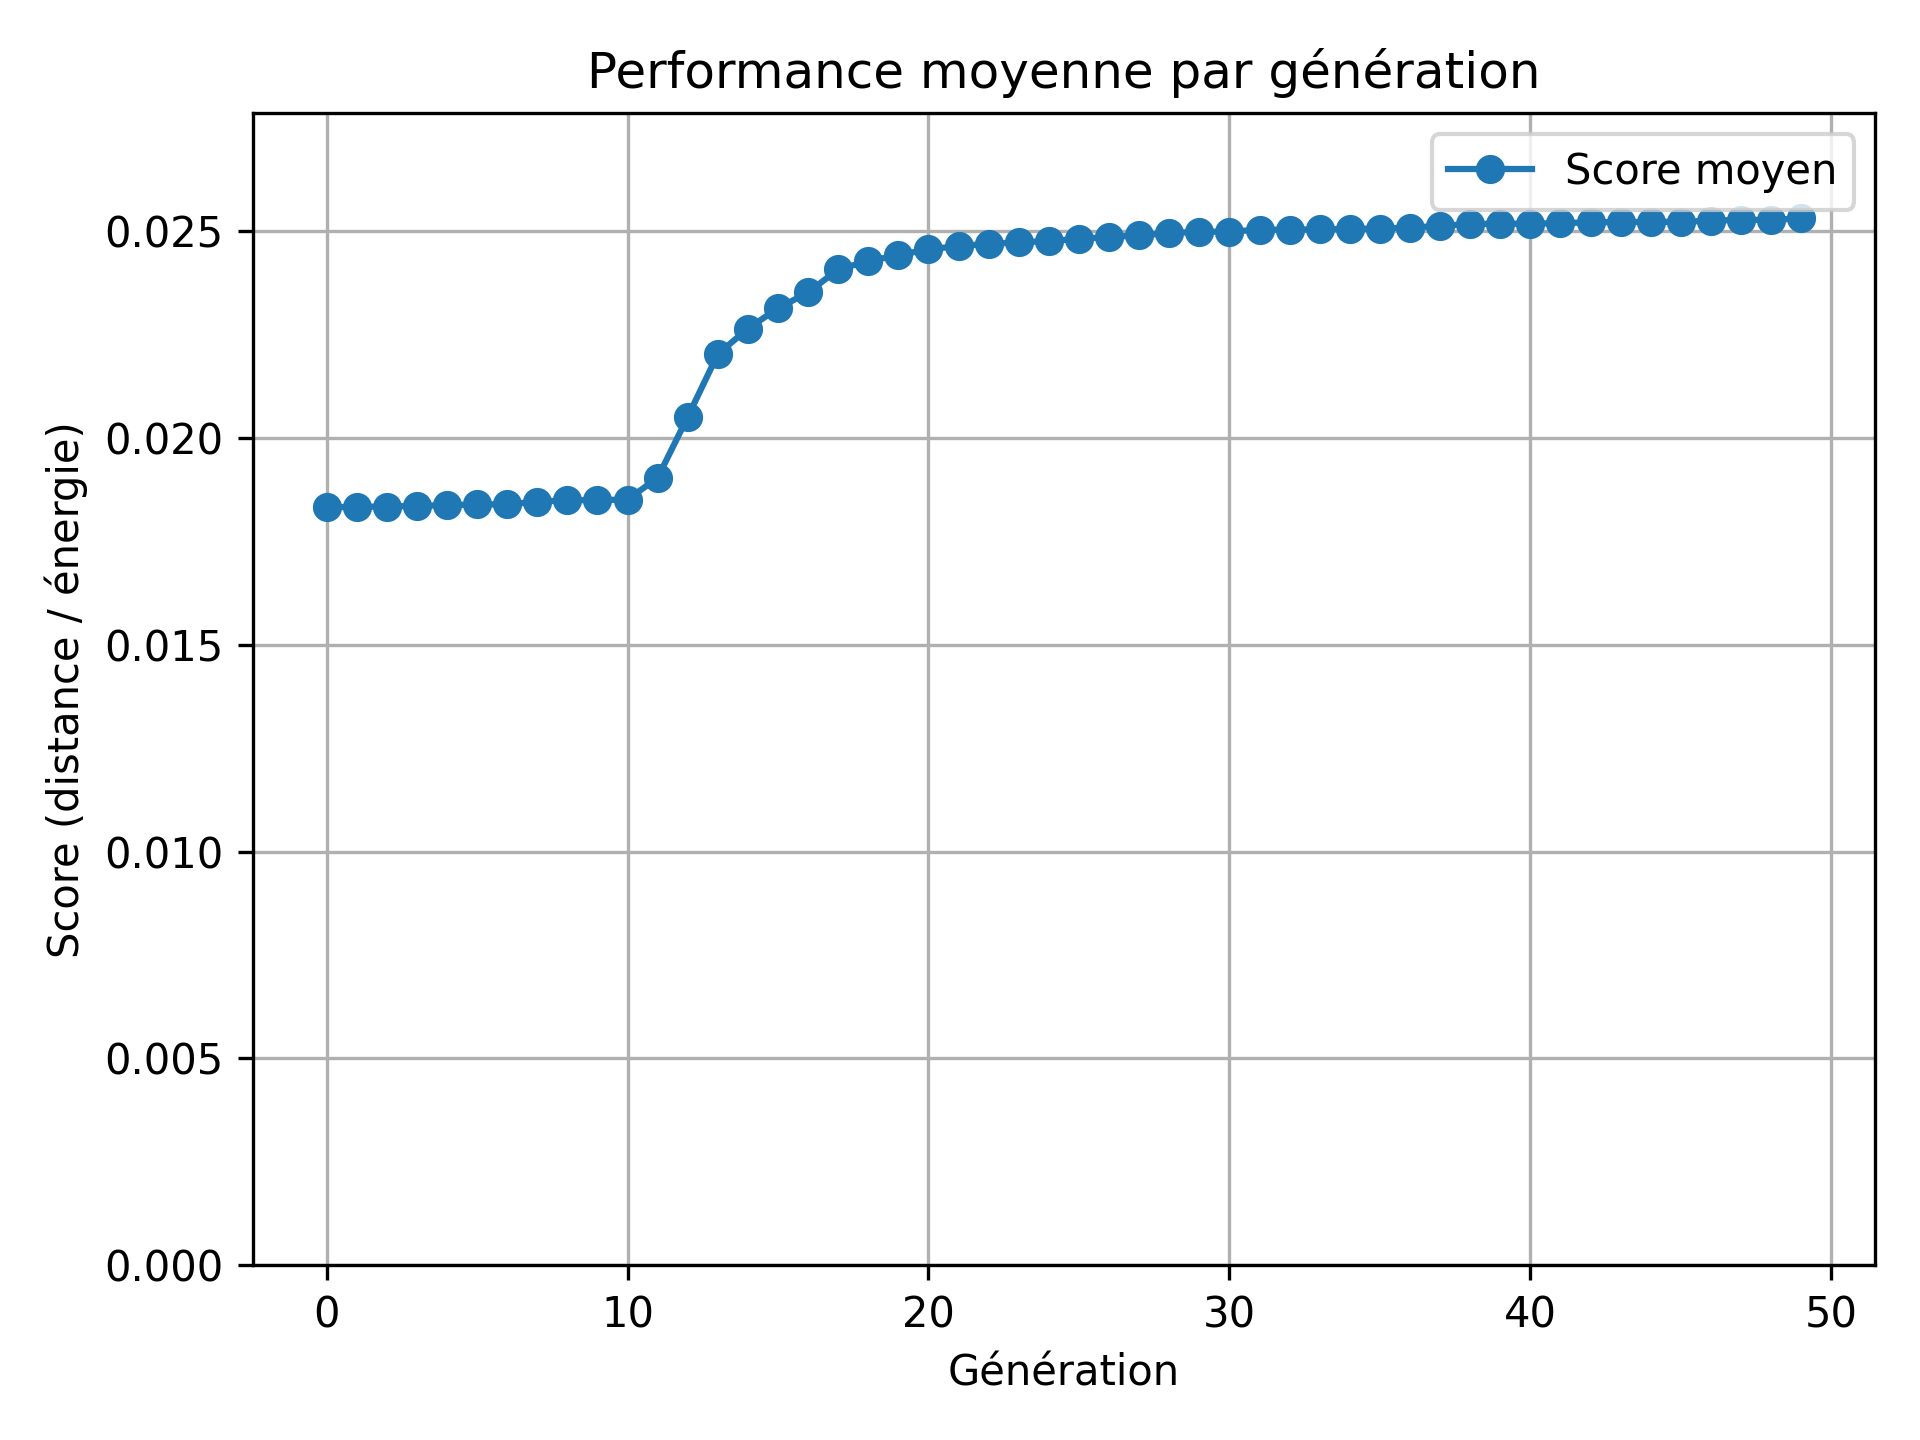
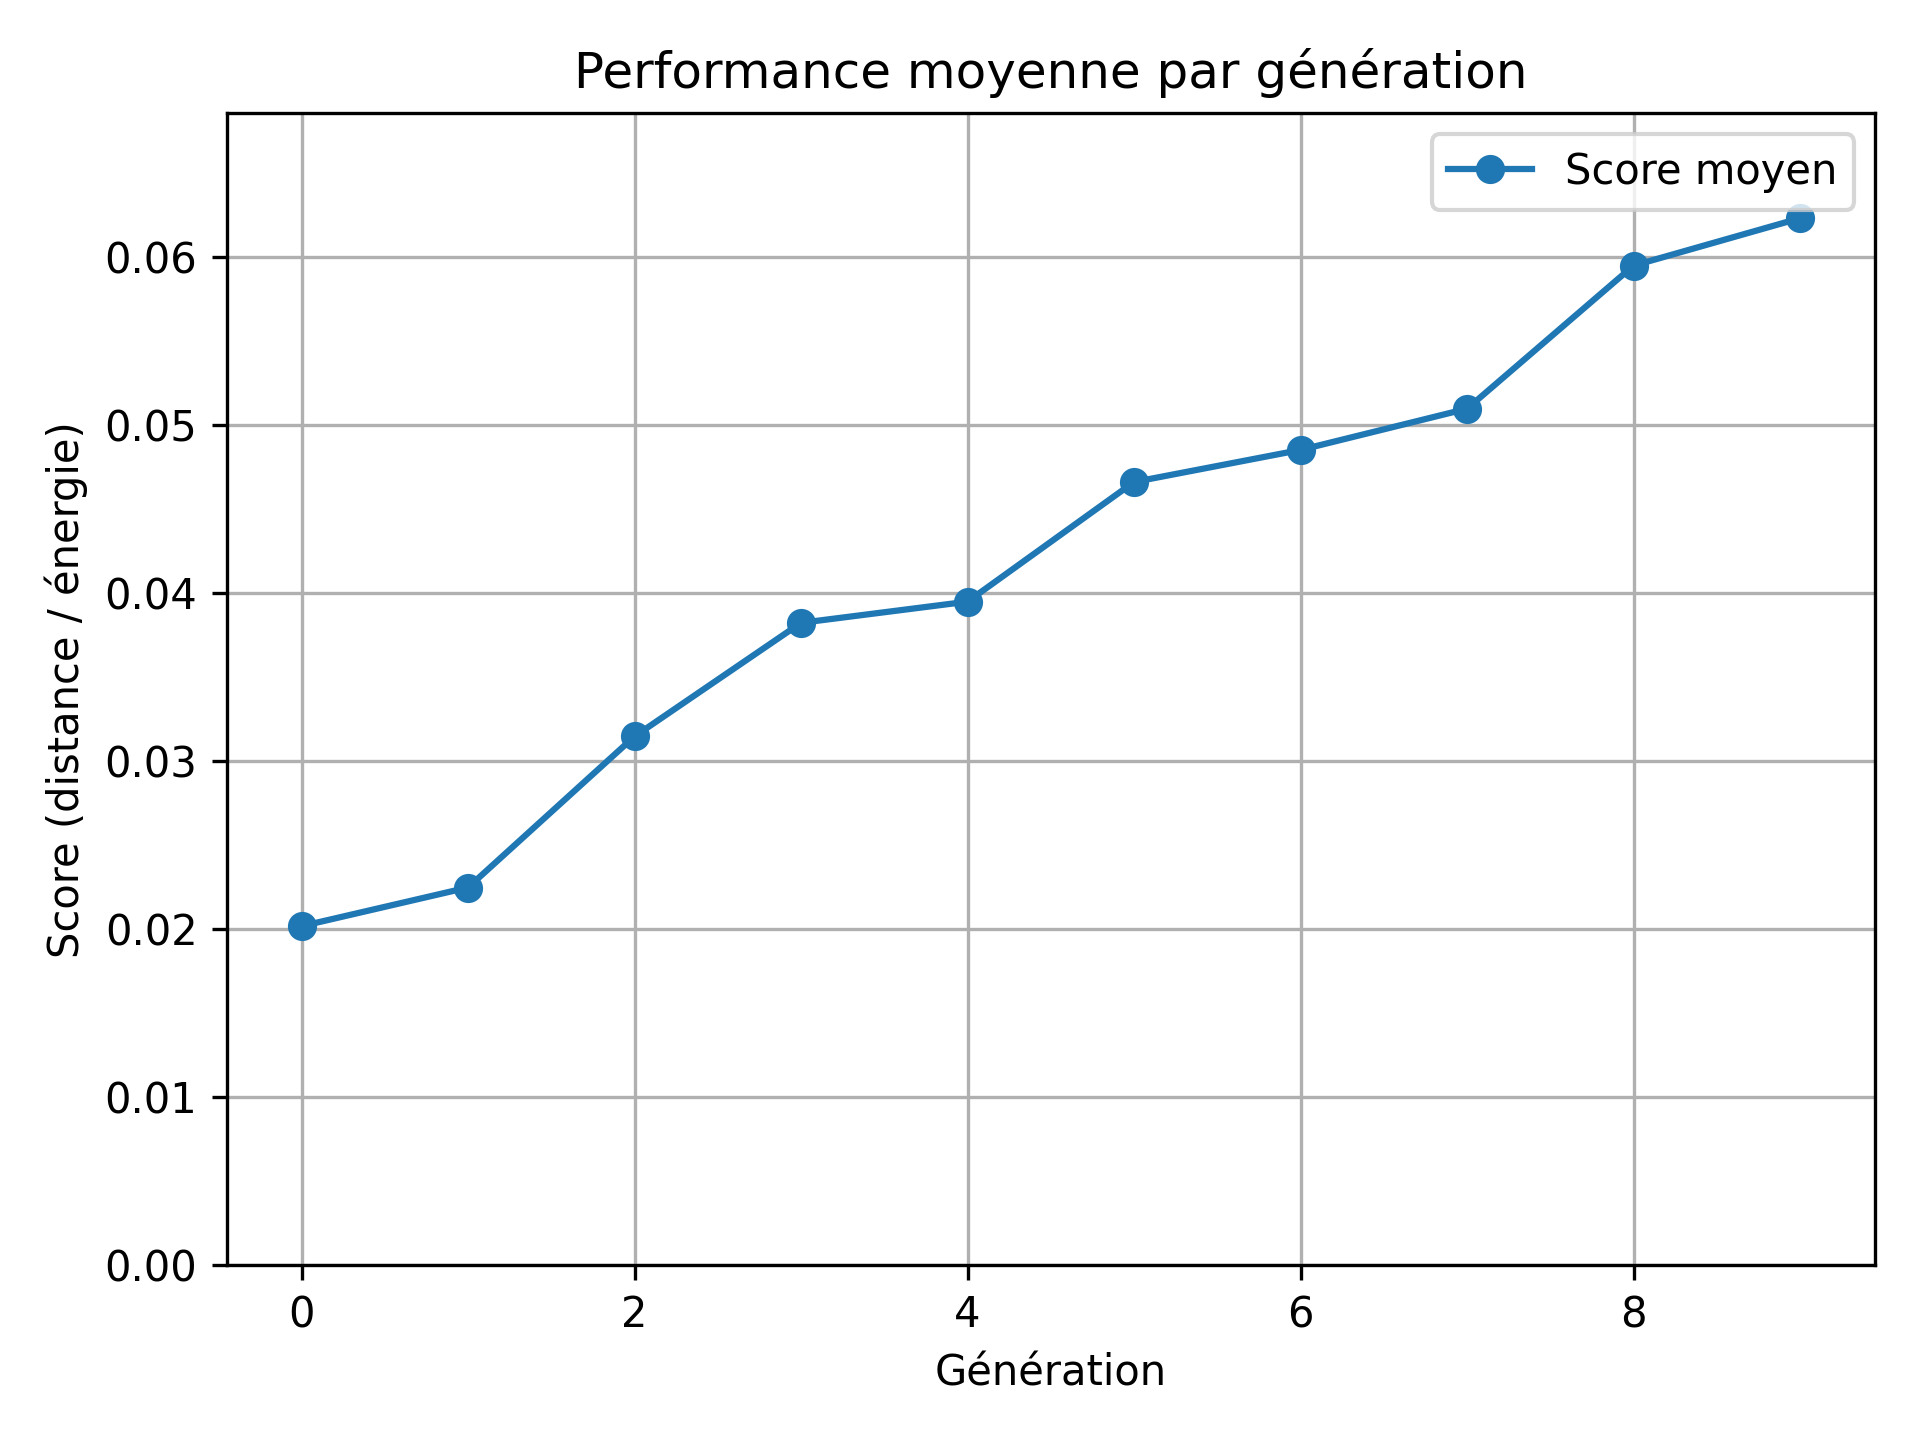
new muscle

diff --git a/muscle.py b/muscle.py
@@ -1,28 +1,46 @@
 import numpy as np
 
 class Muscle:
-    def __init__(self, p0, p1, p2, omega_func, intensite=10.0):
+    def __init__(self, p0, p1, p2, angle_func, intensite=10.0):
+        """
+        Muscle triangulaire entre p0, p1 (pivot), p2.
+        angle_func(t) donne l'angle (en radians) entre p0–p1–p2 au temps t.
+        """
         self.p0 = p0
         self.p1 = p1
         self.p2 = p2
-        self.omega_func = omega_func
+        self.angle_func = angle_func
         self.intensite = intensite
 
+        # Longueurs fixes à l'initialisation
+        self.l0 = np.linalg.norm(p0.pos - p1.pos)
+        self.l2 = np.linalg.norm(p2.pos - p1.pos)
+
     def update(self, t):
-        omega = self.omega_func(t)
+        theta = self.angle_func(t)  # Angle cible à appliquer (en radians)
 
         r0 = self.p0.pos - self.p1.pos
-        r2 = self.p2.pos - self.p1.pos
+        norm_r0 = np.linalg.norm(r0)
+        if norm_r0 < 1e-6:
+            return
 
-        def rotation_2d(v):
-            return np.array([-v[1], v[0]])
+        dir0 = r0 / norm_r0
+        ortho = np.array([-dir0[1], dir0[0]])
 
-        v0 = omega * rotation_2d(r0)
-        v2 = -omega * rotation_2d(r2)
+        # Positions cibles pour p0 et p2
+        target_r0 = self.l0 * (np.cos(theta / 2) * dir0 + np.sin(theta / 2) * ortho)
+        target_r2 = self.l2 * (np.cos(theta / 2) * dir0 - np.sin(theta / 2) * ortho)
 
-        self.p0.v += v0
-        self.p2.v += v2
-        self.p1.v -= (v0 + v2)
+        p0_target = self.p1.pos + target_r0
+        p2_target = self.p1.pos + target_r2
+
+        # Force de rappel (appliquée sous forme de variation de vitesse)
+        force0 = self.intensite * (p0_target - self.p0.pos)
+        force2 = self.intensite * (p2_target - self.p2.pos)
+
+        self.p0.v += force0 / self.p0.masse
+        self.p2.v += force2 / self.p2.masse
+        self.p1.v -= (force0 + force2) / self.p1.masse
 
 
 def interaction_hydrodynamique_triangle(p0, p1, p2, k_interaction=0.3, angle_seuil_deg=70):

diff --git a/simulate_population.py b/simulate_population.py
@@ -11,10 +11,10 @@ from concurrent.futures import ProcessPoolExecutor
 with open("best_genome_last_generation.json", "r") as f:
     minimal_genome = json.load(f)
 
-n = 10000
+n = 1000
 dt = 0.01
 steps = 1000
-generations = 50
+generations = 10
 keep_fraction = 0.01
 mutation_strength = 0.05
 
